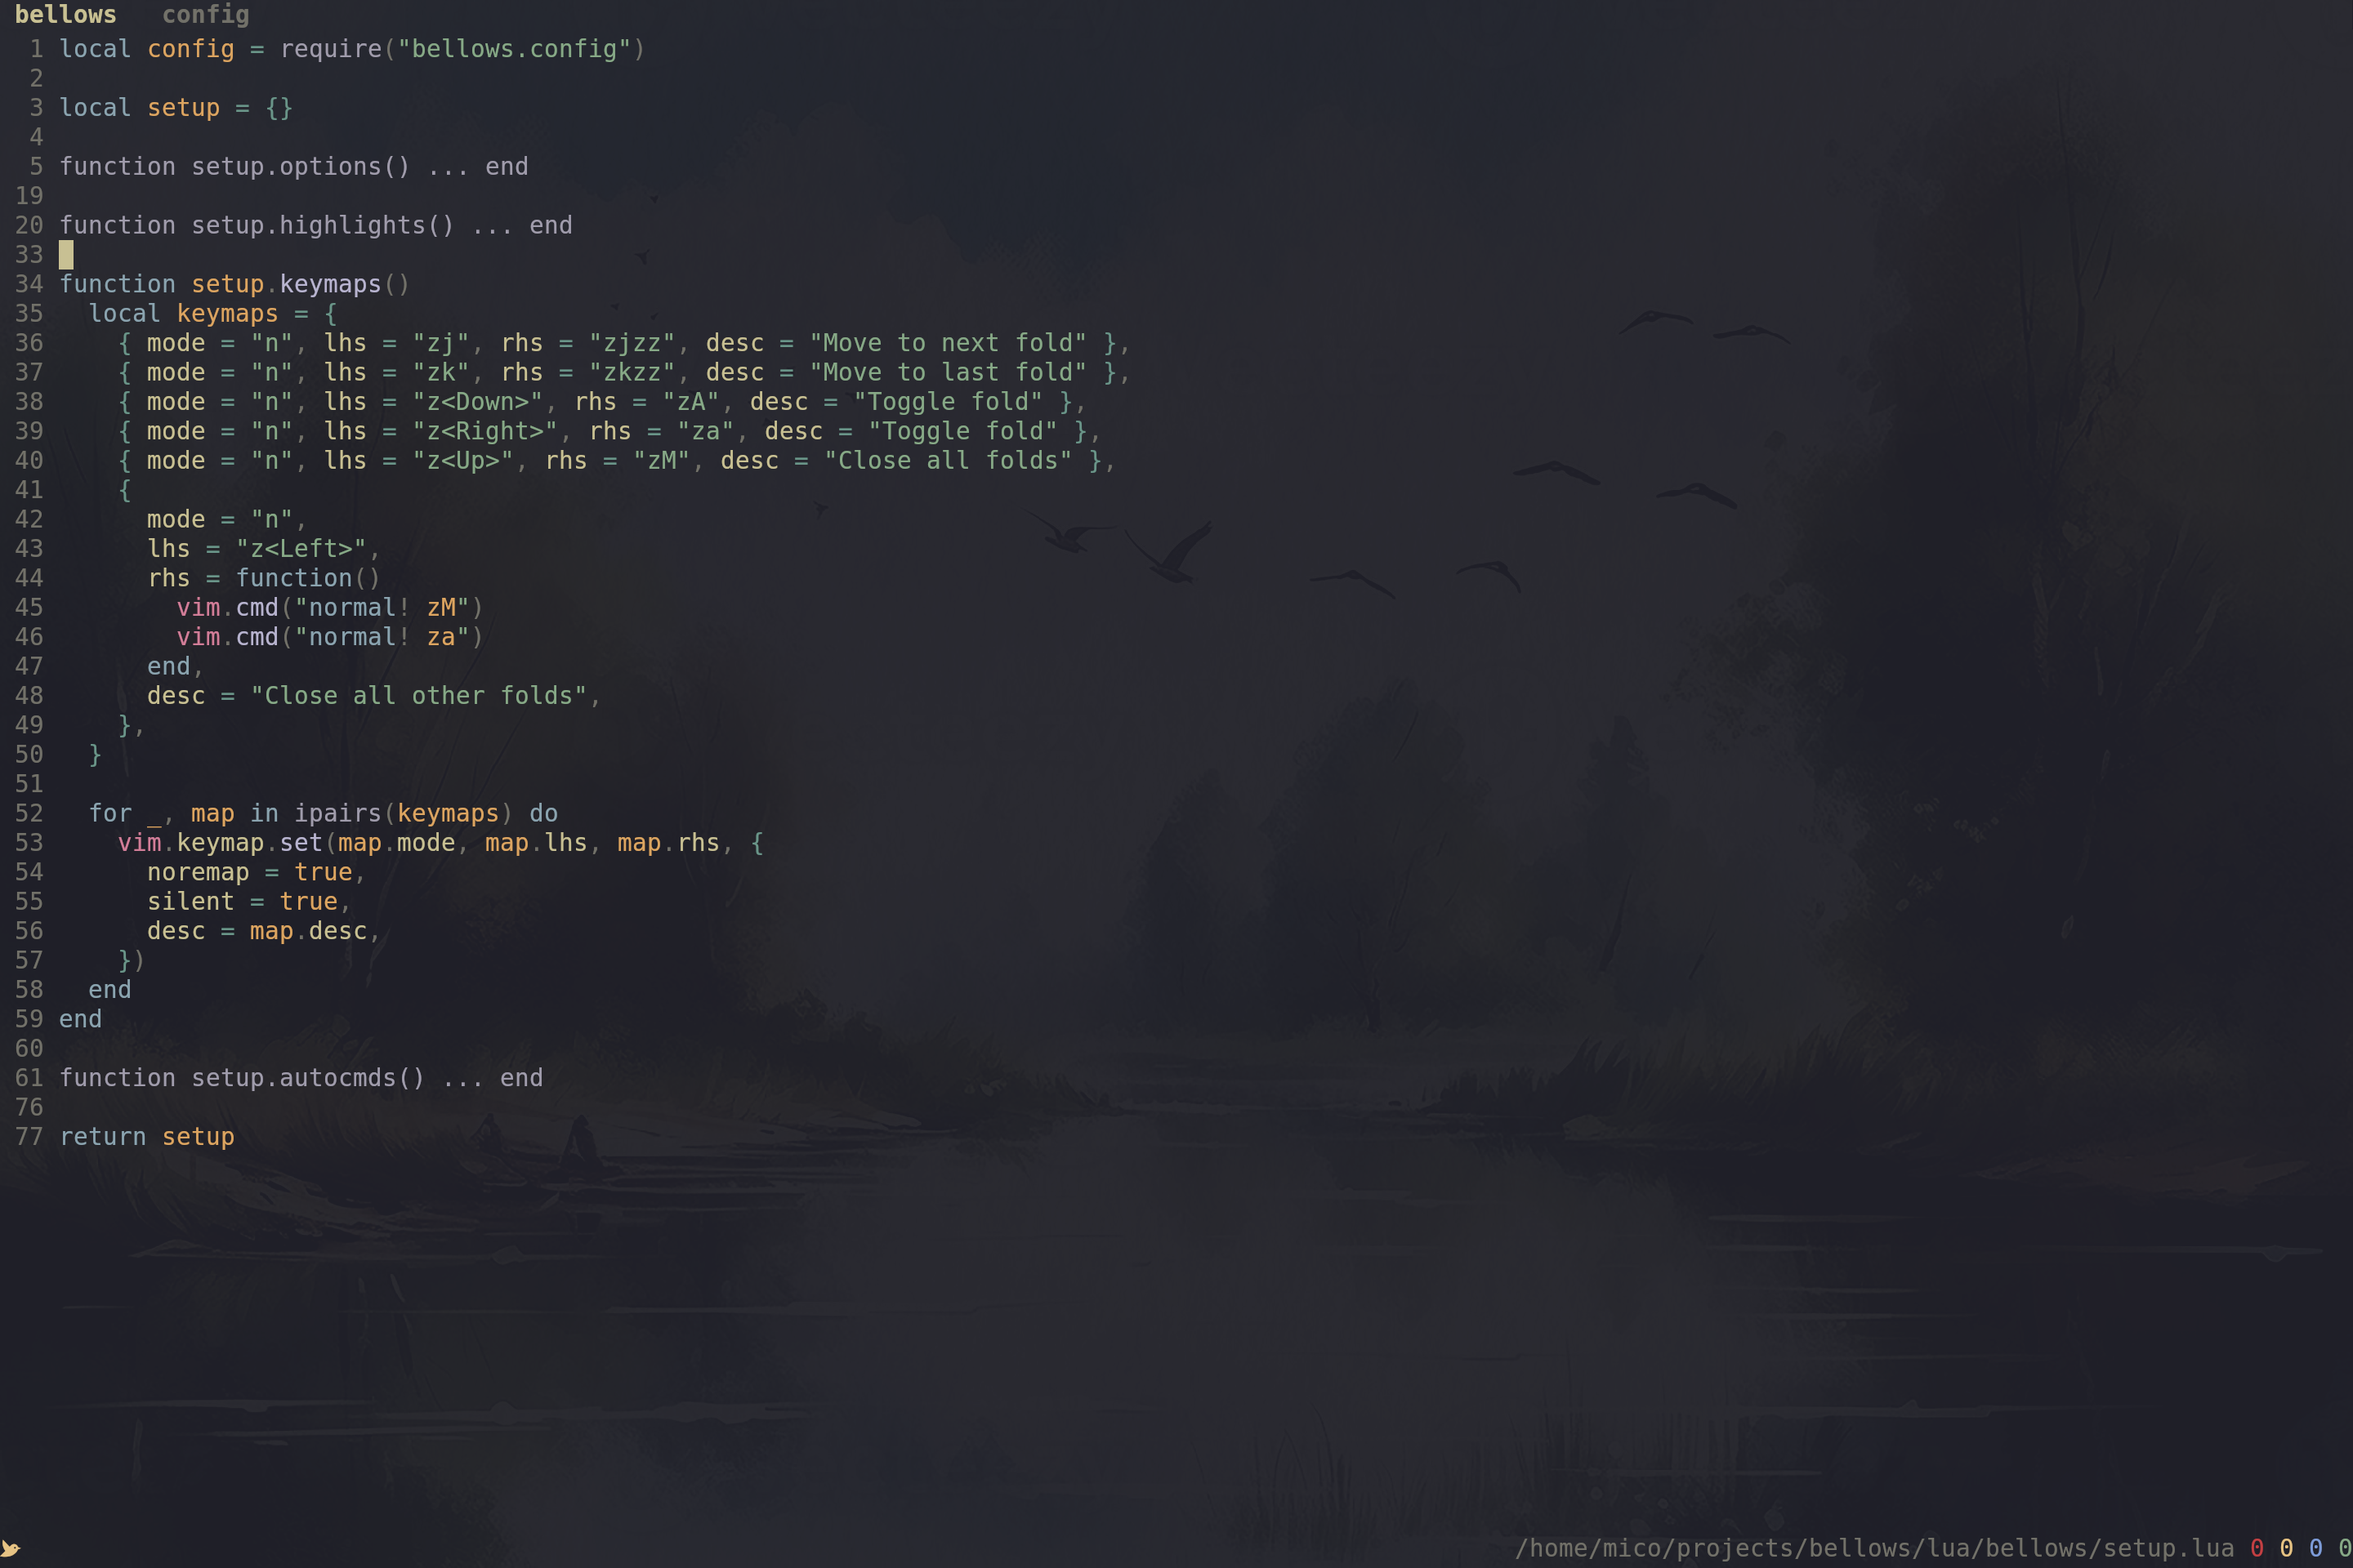
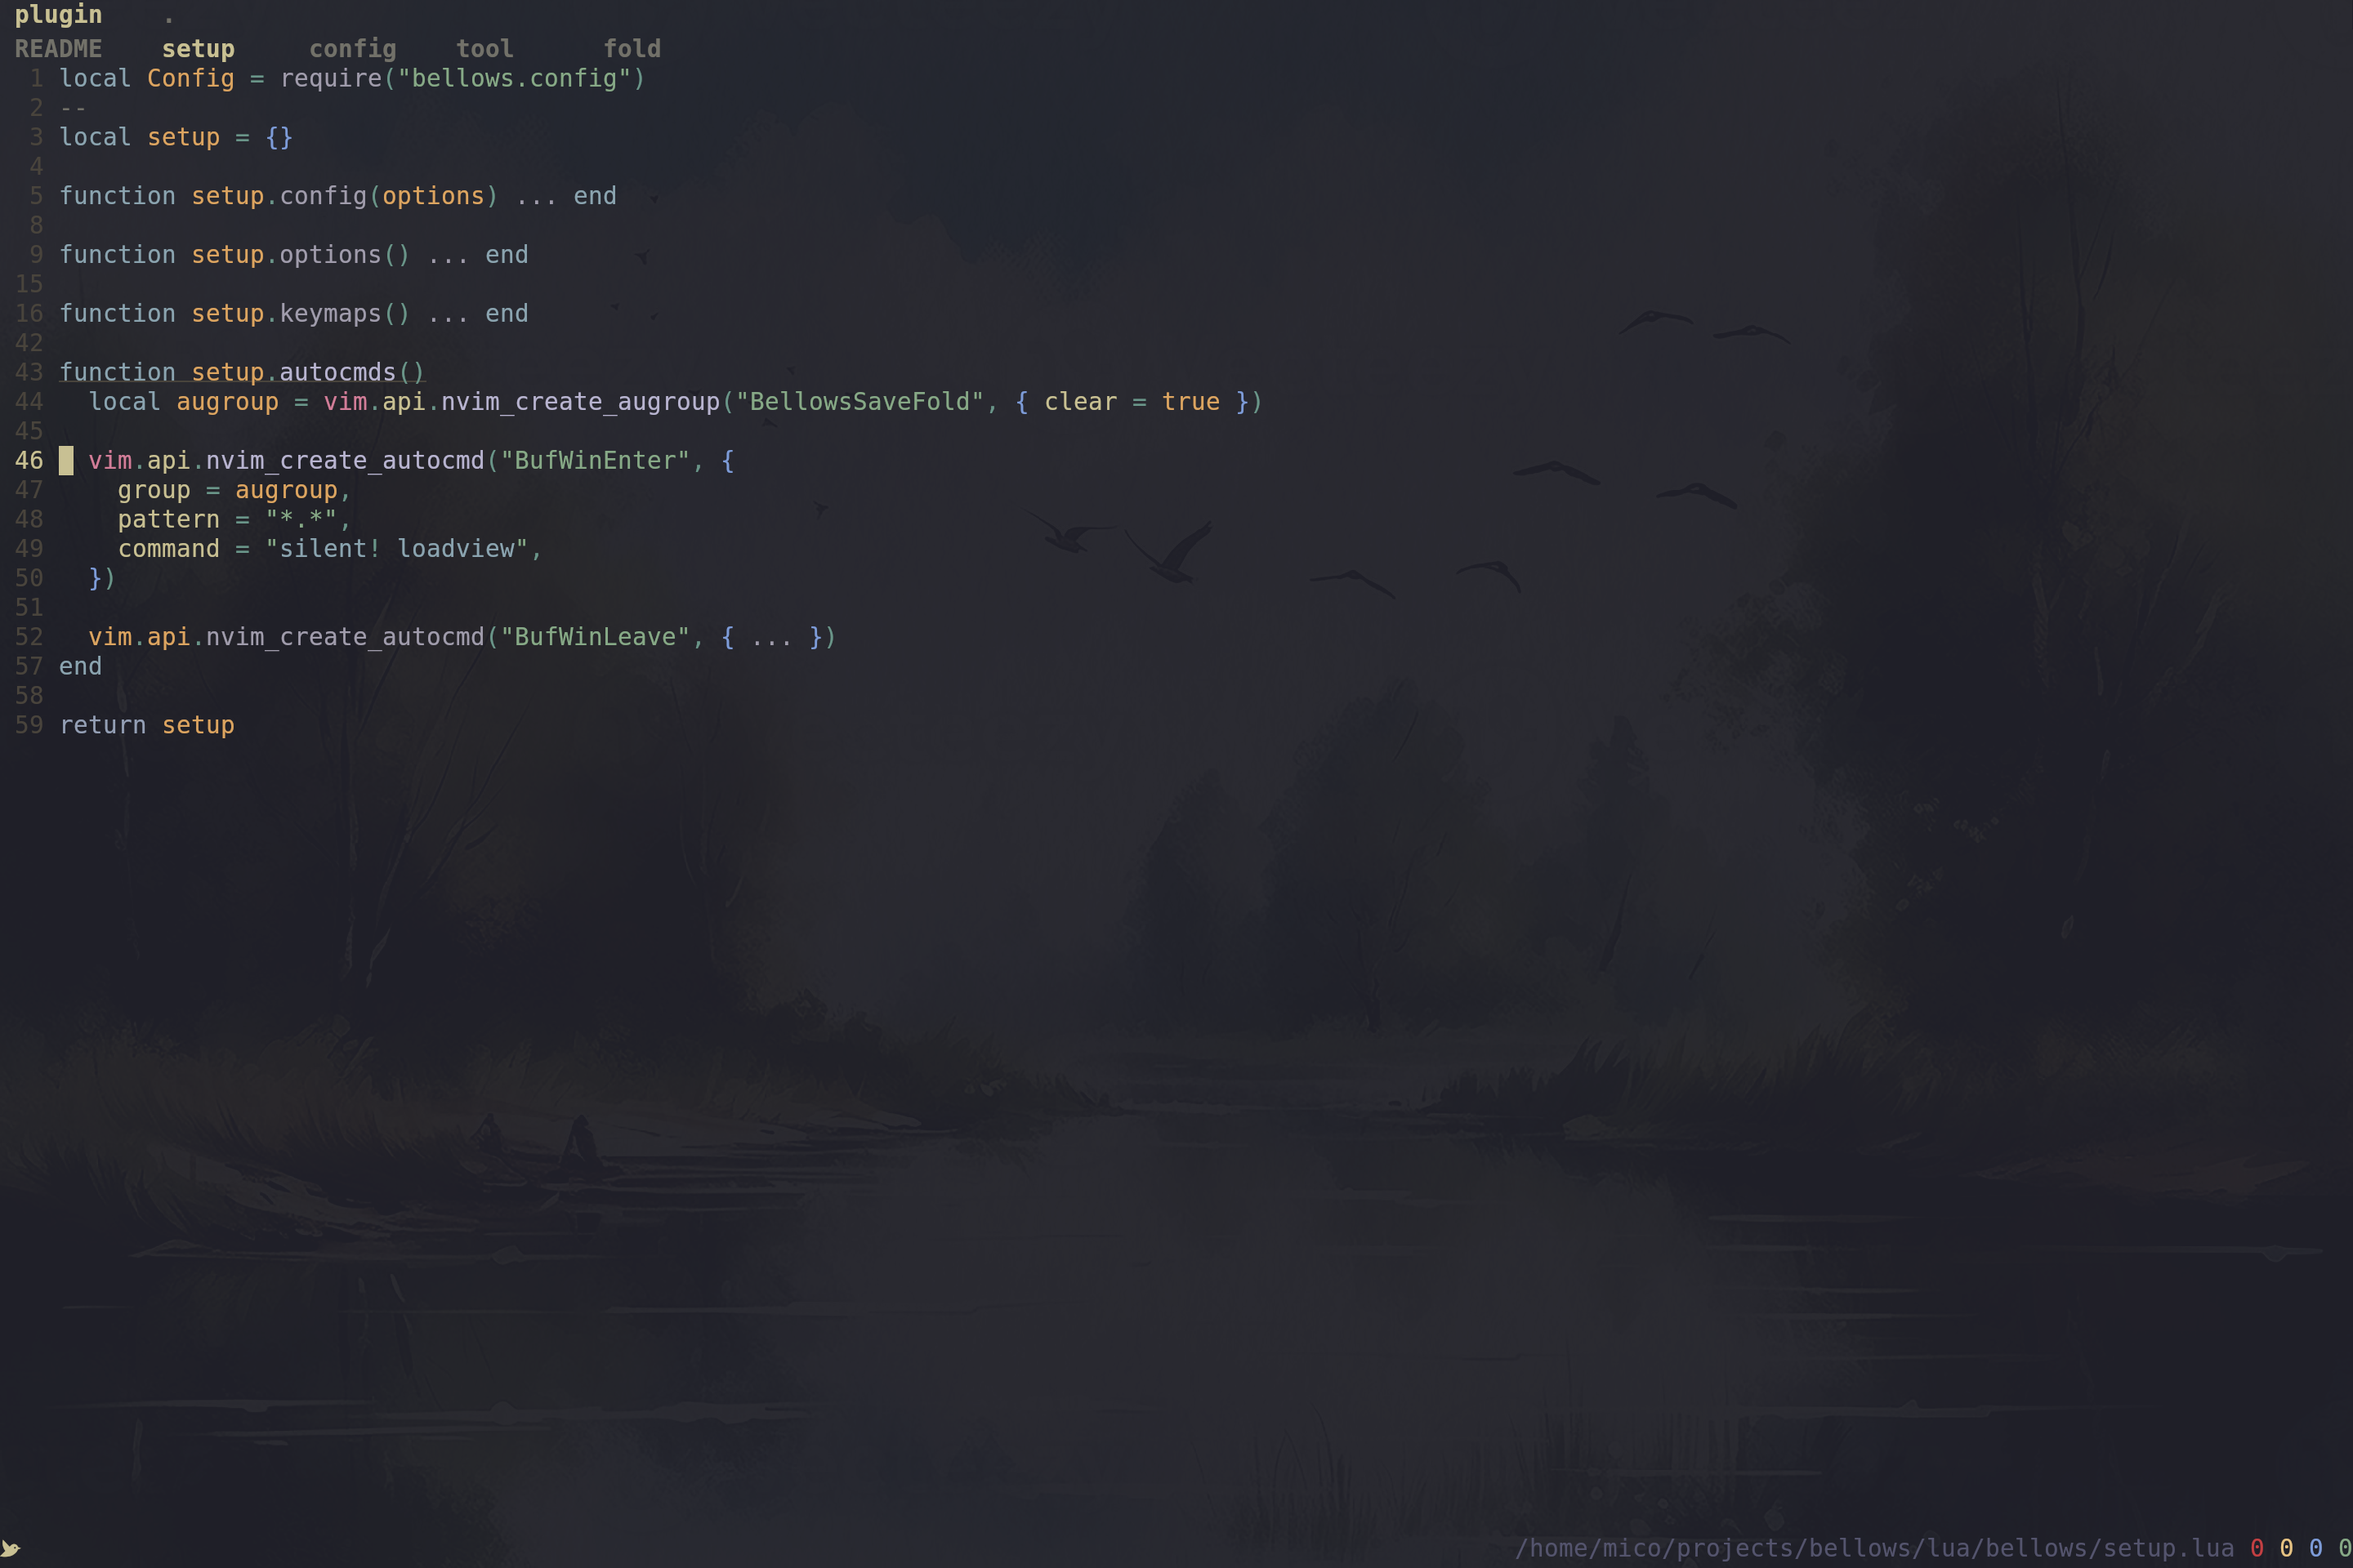
fold highlights, better keymaps

diff --git a/README.md b/README.md
@@ -5,9 +5,8 @@ Just a few expressive keymaps along a very thin polish over neovim's rickety fol
 ## Features
 
 - 💾 Automatic fold persistence between sessions
-- 🌲 Treesitter-based folding with intelligent expression handling
-- 🎨 Customizable colors and appearance with fallback to existing highlights
-- ⌨  Intuitive keymaps for fold navigation and management
+- 🎨 Elegant treesitter highlighted folds
+- ⌨  Intuitive keymaps for expressive fold controls
 
 ## Requirements
 
@@ -26,64 +25,18 @@ Using [lazy.nvim](https://github.com/folke/lazy.nvim):
         "nvim-treesitter/nvim-treesitter",
         "nvim-treesitter/nvim-treesitter-textobjects",
     },
-    opts = {
-        -- your configuration here
-    }
-}
-```
-## Configuration
-
-Default configuration with all options:
-
-```lua
-{
-    settings = {
-        -- Folding settings
-        method = 'expr',                    -- Use expression-based folding
-        foldexpr = "nvim_treesitter#foldexpr()", -- Treesitter-based fold expression
-        nestmax = 3,                        -- Maximum nesting level
-        minlines = 1,                       -- Minimum lines for a fold
-        level = 99,                         -- Initial fold level
-        column = '0',                       -- Fold column width
-        
-        -- Customize fold text appearance
-        foldtext = [[substitute(getline(v:foldstart),'\t',repeat('\ ',&tabstop),'g').' ... '.trim(getline(v:foldend))]],
-        
-        -- Optional: disable default keymaps
-        disable_keymaps = false,
-    },
-    
-    colors = {
-        -- Colors can be hex values or highlight group names
-        fold = vim.api.nvim_get_hl(0, { name = "Folded" }),    -- Fold text color
-        column = vim.api.nvim_get_hl(0, { name = "Special" }), -- Fold column color
-    },
 }
 ```
 ## Keymaps
 
-Default keymaps (can be disabled with `disable_keymaps = true`):
-
-| Keymap    | Description           | 
-|-----------|----------------------|
-| `zj`      | Move to next fold    |
-| `zk`      | Move to previous fold|
-| `z<Down>` | Toggle current fold  |
-| `z<Up>`   | Close all folds     |
-| `z<Left>` | Close all other folds|
-| `z<Right>` | Open next fold layer|
-
-### Customizing Fold Text
-
-The `foldtext` option determines how folded text is displayed. The default shows the first line, followed by "..." and the last line. You can customize this with Vim's fold-related variables:
-
-- `v:foldstart`: First line of the fold
-- `v:foldend`: Last line of the fold
-- `v:folddashes`: A string of dashes representing fold level
-- `v:foldlevel`: Current fold level
-
-Example of custom fold text:
-
+| Keymap         | Description           | 
+|----------------|-----------------------|
+| `<Shift-End>`  | Move to next fold     |
+| `<Shift-Home>` | Move to previous fold |
+| `<Shift-Left>` | Close all other folds |
+| `<Shift-Right>` | Toggle fold           |
+| `<Shift-Up>`   | Close all folds       |
+| `<Shift-Down>` | Toggle fold cascade   |
 
 ## Commands
 
@@ -97,8 +50,8 @@ The plugin automatically handles fold persistence through these events:
 **Q: Why aren't my folds persisting between sessions?**
 A: Make sure you have `set viewoptions?` properly configured. The minimal required options are `folds,cursor`.
 
-**Q: Can I use this with other folding plugins?**
-A: Yes, but you may need to adjust the `foldmethod` and `foldexpr` settings to avoid conflicts.
+**Q: Can I change the default keymaps ?**
+A: I'm working on it :)
 
 ## License
 
@@ -106,5 +59,5 @@ MIT - See [LICENSE](./LICENSE) for more information.
 
 ## Acknowledgments
 
-- [nvim-treesitter](https://github.com/nvim-treesitter/nvim-treesitter) for providing the foundation for intelligent code folding
 - The Neovim community for inspiration and support
+- this reddit post : [reddit post](https://www.reddit.com/r/neovim/comments/16sqyjz/finally_we_can_have_highlighted_folds)
